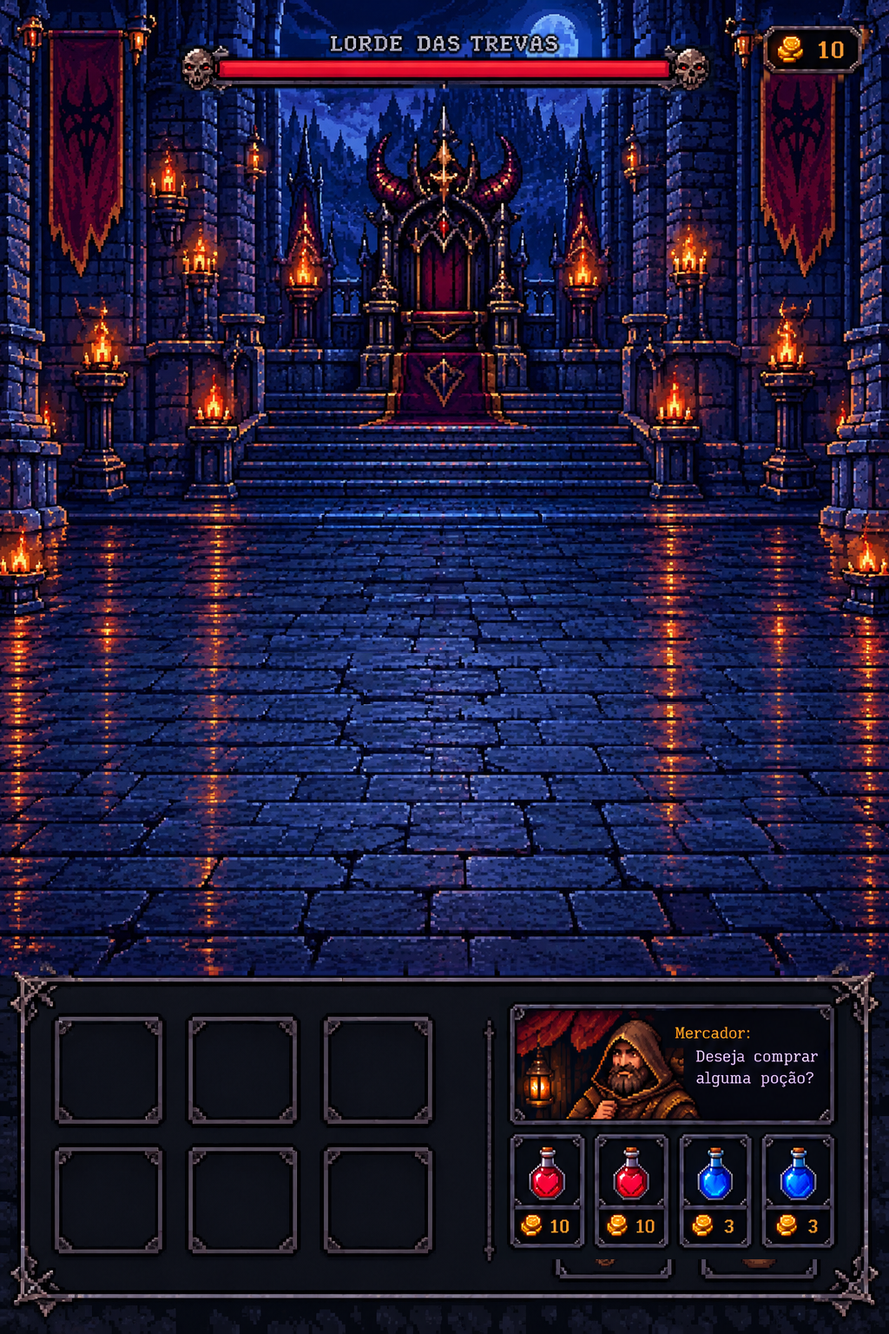
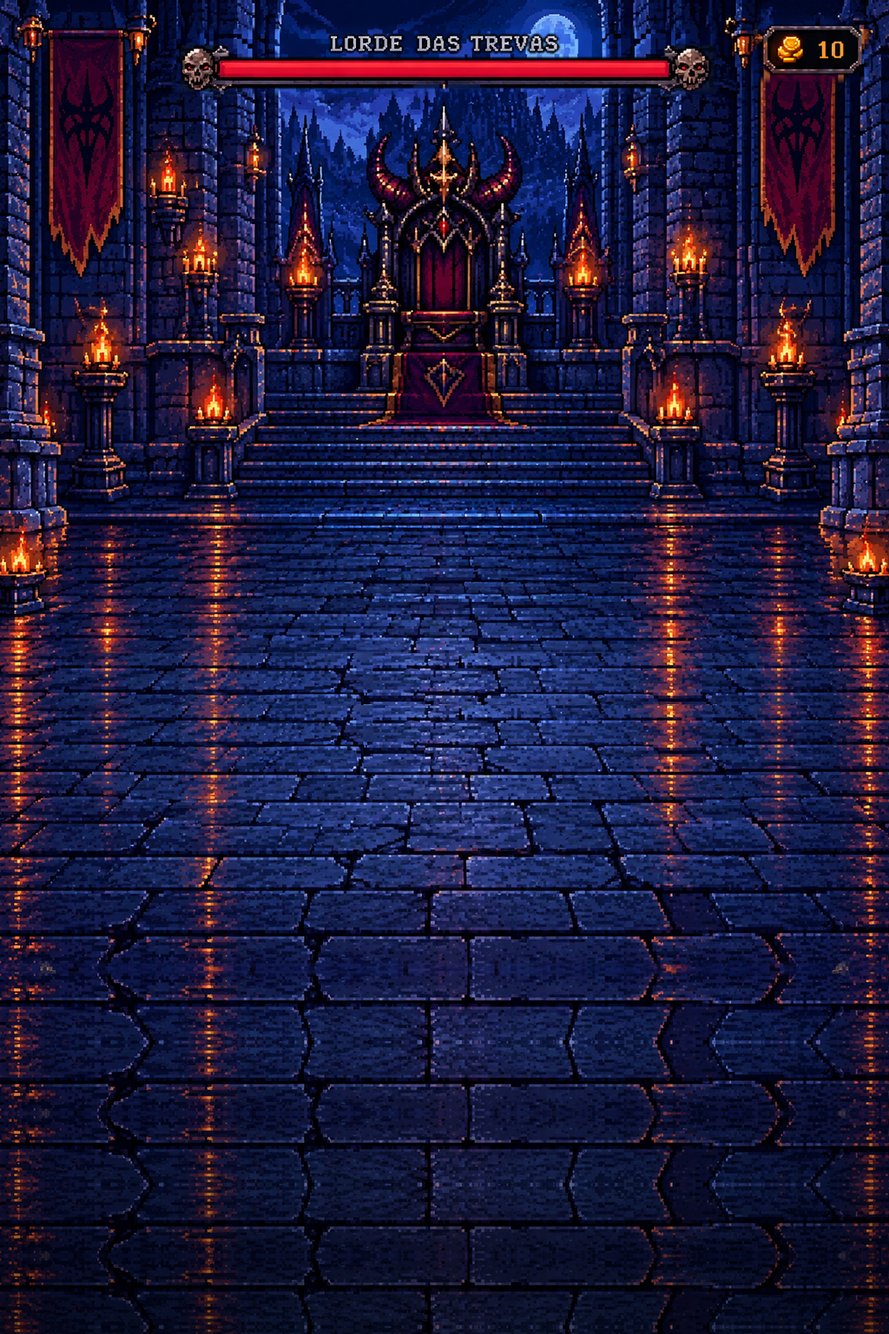
v81: menu de habilidades menor, so seta na vez, inventario/mercador escondidos
Claude-Session: https://claude.ai/code/session_01YFC38PcyDKAfPNhJ7r1cKG

Changed region(s): [[0.0, 0.7188, 1.0, 1.0]]

diff --git a/sw.js b/sw.js
@@ -1,5 +1,5 @@
-const CACHE='bd1-rpg-v80';
-const ASSETS=['./','./index.html','./game.html','./lobby.js','./menu_meta.js','./menu_assassin.png','./menu_mage.png','./menu_knight.png','./menu_tank.png','./menu_elem.png','./icon_tipo_sword.png','./lobby.css','./select_plate.webp','./char_mage.webp','./char_knight.webp','./char_tank.webp','./char_assassin.webp','./panel_mage.webp','./panel_knight.webp','./panel_tank.webp','./panel_assassin.webp','./style.css','./app.js','./anim.js','./mage.js','./cleric.js','./tank.js','./knight.js','./fxsoft.js','./knight/K1_1.png','./knight/K1_10.png','./knight/K1_11.png','./knight/K1_13.png','./knight/K1_14.png','./knight/K1_15.png','./knight/K1_19.png','./knight/K1_2.png','./knight/K1_20.png','./knight/K1_21.png','./knight/K1_22.png','./knight/K1_23.png','./knight/K1_24.png','./knight/K1_25.png','./knight/K1_26.png','./knight/K1_27.png','./knight/K1_28.png','./knight/K1_29.png','./knight/K1_30.png','./knight/K1_31.png','./knight/K1_32.png','./knight/K1_35.png','./knight/K1_37.png','./knight/K1_4.png','./knight/K1_41.png','./knight/K1_42.png','./knight/K1_44.png','./knight/K1_45.png','./knight/K1_46.png','./knight/K1_49.png','./knight/K1_5.png','./knight/K1_6.png','./knight/K1_7.png','./knight/K1_8.png','./knight/K1_9.png','./knight/K2_10.png','./knight/K2_11.png','./knight/K2_13.png','./knight/K2_14.png','./knight/K2_15.png','./knight/K2_16.png','./knight/K2_17.png','./knight/K2_18.png','./knight/K2_19.png','./knight/K2_2.png','./knight/K2_20.png','./knight/K2_21.png','./knight/K2_22.png','./knight/K2_23.png','./knight/K2_24.png','./knight/K2_25.png','./knight/K2_26.png','./knight/K2_28.png','./knight/K2_29.png','./knight/K2_3.png','./knight/K2_30.png','./knight/K2_32.png','./knight/K2_33.png','./knight/K2_34.png','./knight/K2_35.png','./knight/K2_37.png','./knight/K2_38.png','./knight/K2_39.png','./knight/K2_4.png','./knight/K2_41.png','./knight/K2_42.png','./knight/K2_43.png','./knight/K2_44.png','./knight/K2_45.png','./knight/K2_46.png','./knight/K2_5.png','./knight/K2_6.png','./knight/K2_7.png','./knight/K2_8.png','./knight/K2_9.png','./knight/K3_1.png','./knight/K3_10.png','./knight/K3_11.png','./knight/K3_12.png','./knight/K3_13.png','./knight/K3_14.png','./knight/K3_15.png','./knight/K3_16.png','./knight/K3_17.png','./knight/K3_18.png','./knight/K3_2.png','./knight/K3_20.png','./knight/K3_21.png','./knight/K3_22.png','./knight/K3_23.png','./knight/K3_24.png','./knight/K3_25.png','./knight/K3_26.png','./knight/K3_27.png','./knight/K3_28.png','./knight/K3_29.png','./knight/K3_3.png','./knight/K3_30.png','./knight/K3_31.png','./knight/K3_32.png','./knight/K3_33.png','./knight/K3_34.png','./knight/K3_35.png','./knight/K3_36.png','./knight/K3_37.png','./knight/K3_38.png','./knight/K3_39.png','./knight/K3_4.png','./knight/K3_40.png','./knight/K3_41.png','./knight/K3_42.png','./knight/K3_43.png','./knight/K3_44.png','./knight/K3_45.png','./knight/K3_46.png','./knight/K3_47.png','./knight/K3_48.png','./knight/K3_5.png','./knight/K3_6.png','./knight/K3_7.png','./knight/K3_8.png','./knight/K3_9.png','./knight/fx_ice.png','./knight/fx_rocksA.png','./knight/fx_rock1.png','./knight/fx_rock2.png','./knight/fx_rock3.png','./knight/fx_rock4.png','./knight/fx_slash.png','./knight/meta.json','./clr/at1.png','./clr/at2.png','./clr/at3.png','./clr/bg1.png','./clr/bg2.png','./clr/bg3.png','./clr/bg4.png','./clr/bp1.png','./clr/bp2.png','./clr/bp3.png','./clr/br1.png','./clr/br2.png','./clr/br3.png','./clr/br4.png','./clr/br5.png','./clr/br6.png','./clr/bt1.png','./clr/bt2.png','./clr/bt3.png','./clr/bt4.png','./clr/d1.png','./clr/d2.png','./clr/d3.png','./clr/d4.png','./clr/dg1.png','./clr/dg2.png','./clr/dg3.png','./clr/dn1.png','./clr/dn2.png','./clr/dn3.png','./clr/ds1.png','./clr/ex1.png','./clr/fx_aura.png','./clr/fx_burst.png','./clr/fx_cross1.png','./clr/fx_lotus.png','./clr/fx_pillar.png','./clr/fx_pillar2.png','./clr/fx_ring1.png','./clr/fx_ring2.png','./clr/fx_ring3.png','./clr/fx_star1.png','./clr/fx_star2.png','./clr/fx_star3.png','./clr/fx_star4.png','./clr/fx_streak1.png','./clr/fx_streak2.png','./clr/fx_streak3.png','./clr/fx_sunstar.png','./clr/hat1.png','./clr/hat2.png','./clr/idle1.png','./clr/meta.json','./clr/pr1.png','./clr/pr2.png','./clr/stf.png','./clr/ult1.png','./clr/ult2.png','./clr/v1.png','./clr/v2.png','./mage3/air.png','./mage3/atk1.png','./mage3/atk2.png','./mage3/atk3.png','./mage3/bh1.png','./mage3/bh2.png','./mage3/castdef.png','./mage3/defair.png','./mage3/defearth.png','./mage3/deffire.png','./mage3/defmana.png','./mage3/defwater.png','./mage3/dodge1.png','./mage3/dodge2.png','./mage3/dodge3.png','./mage3/dodge4.png','./mage3/earth.png','./mage3/fire.png','./mage3/fx_air_swirl.png','./mage3/fx_bh_big.png','./mage3/fx_bh_big2.png','./mage3/fx_bh_small.png','./mage3/fx_bh_spikes.png','./mage3/fx_bolt.png','./mage3/fx_comet.png','./mage3/fx_cross.png','./mage3/fx_crystal.png','./mage3/fx_earth_spikes.png','./mage3/fx_fire_fall.png','./mage3/fx_mana_aura.png','./mage3/fx_orb_blue.png','./mage3/fx_orb_orange.png','./mage3/fx_orb_red.png','./mage3/fx_orbb.png','./mage3/fx_ring_floor.png','./mage3/fx_rock.png','./mage3/fx_rocks.png','./mage3/fx_star_big.png','./mage3/fx_star_small.png','./mage3/fx_water_pillar.png','./mage3/fx_whirl.png','./mage3/idle1.png','./mage3/idle2.png','./mage3/idle3.png','./mage3/idle4.png','./mage3/meta.json','./mage3/spin1.png','./mage3/spinwide.png','./mage3/stars.png','./mage3/swingf.png','./mage3/swingl.png','./mage3/swingr.png','./mage3/water.png','./anim/manifest.json','./spr_mage.webp','./spr_knight.webp','./spr_tank.webp','./spr_assassin.webp','./spr_boss.webp','./game_clean.png','./game_nohud.png','./hud_mage.png','./hud_knight.png','./hud_tank.png','./hud_assassin.png','./question_panel.png','./icon_attack.png','./icon_coin.png','./manifest.webmanifest','./potion_hp.png','./potion_mana.png','./tank/a_bub.png','./tank/a_cr.png','./tank/a_dust.png','./tank/a_hh.png','./tank/a_i1.png','./tank/a_i2.png','./tank/a_lo.png','./tank/a_rd.png','./tank/a_rl1.png','./tank/a_rl2.png','./tank/a_s1.png','./tank/a_s2.png','./tank/a_sw.png','./tank/a_swl.png','./tank/d_a1.png','./tank/d_a2.png','./tank/d_a3.png','./tank/d_a4.png','./tank/d_e1.png','./tank/d_e2.png','./tank/d_e3.png','./tank/d_e4.png','./tank/d_f1.png','./tank/d_f2.png','./tank/d_f3.png','./tank/d_h1.png','./tank/d_h2.png','./tank/d_h3.png','./tank/d_h4.png','./tank/d_i1.png','./tank/d_i2.png','./tank/d_i3.png','./tank/d_m1.png','./tank/d_m2.png','./tank/d_m3.png','./tank/d_m4.png','./tank/d_p1.png','./tank/d_p3.png','./tank/d_u1.png','./tank/d_u2.png','./tank/fx_bring.png','./tank/fx_bspike.png','./tank/fx_earth.png','./tank/fx_rockburst.png','./tank/meta.json','./tank/n1.png','./tank/n2.png','./tank/n3.png','./tank/p1.png','./tank/tA.png','./tank/tB.png','./tank/tC.png','./tank/v1.png','./tank/v2.png','./tank/v3.png','./tank/v4.png'];
+const CACHE='bd1-rpg-v81';
+const ASSETS=['./','./index.html','./game.html','./lobby.js','./bag_panel.png','./bag_icon.png','./bag_merchant.png','./menu_meta.js','./menu_assassin.png','./menu_mage.png','./menu_knight.png','./menu_tank.png','./menu_elem.png','./icon_tipo_sword.png','./lobby.css','./select_plate.webp','./char_mage.webp','./char_knight.webp','./char_tank.webp','./char_assassin.webp','./panel_mage.webp','./panel_knight.webp','./panel_tank.webp','./panel_assassin.webp','./style.css','./app.js','./anim.js','./mage.js','./cleric.js','./tank.js','./knight.js','./fxsoft.js','./knight/K1_1.png','./knight/K1_10.png','./knight/K1_11.png','./knight/K1_13.png','./knight/K1_14.png','./knight/K1_15.png','./knight/K1_19.png','./knight/K1_2.png','./knight/K1_20.png','./knight/K1_21.png','./knight/K1_22.png','./knight/K1_23.png','./knight/K1_24.png','./knight/K1_25.png','./knight/K1_26.png','./knight/K1_27.png','./knight/K1_28.png','./knight/K1_29.png','./knight/K1_30.png','./knight/K1_31.png','./knight/K1_32.png','./knight/K1_35.png','./knight/K1_37.png','./knight/K1_4.png','./knight/K1_41.png','./knight/K1_42.png','./knight/K1_44.png','./knight/K1_45.png','./knight/K1_46.png','./knight/K1_49.png','./knight/K1_5.png','./knight/K1_6.png','./knight/K1_7.png','./knight/K1_8.png','./knight/K1_9.png','./knight/K2_10.png','./knight/K2_11.png','./knight/K2_13.png','./knight/K2_14.png','./knight/K2_15.png','./knight/K2_16.png','./knight/K2_17.png','./knight/K2_18.png','./knight/K2_19.png','./knight/K2_2.png','./knight/K2_20.png','./knight/K2_21.png','./knight/K2_22.png','./knight/K2_23.png','./knight/K2_24.png','./knight/K2_25.png','./knight/K2_26.png','./knight/K2_28.png','./knight/K2_29.png','./knight/K2_3.png','./knight/K2_30.png','./knight/K2_32.png','./knight/K2_33.png','./knight/K2_34.png','./knight/K2_35.png','./knight/K2_37.png','./knight/K2_38.png','./knight/K2_39.png','./knight/K2_4.png','./knight/K2_41.png','./knight/K2_42.png','./knight/K2_43.png','./knight/K2_44.png','./knight/K2_45.png','./knight/K2_46.png','./knight/K2_5.png','./knight/K2_6.png','./knight/K2_7.png','./knight/K2_8.png','./knight/K2_9.png','./knight/K3_1.png','./knight/K3_10.png','./knight/K3_11.png','./knight/K3_12.png','./knight/K3_13.png','./knight/K3_14.png','./knight/K3_15.png','./knight/K3_16.png','./knight/K3_17.png','./knight/K3_18.png','./knight/K3_2.png','./knight/K3_20.png','./knight/K3_21.png','./knight/K3_22.png','./knight/K3_23.png','./knight/K3_24.png','./knight/K3_25.png','./knight/K3_26.png','./knight/K3_27.png','./knight/K3_28.png','./knight/K3_29.png','./knight/K3_3.png','./knight/K3_30.png','./knight/K3_31.png','./knight/K3_32.png','./knight/K3_33.png','./knight/K3_34.png','./knight/K3_35.png','./knight/K3_36.png','./knight/K3_37.png','./knight/K3_38.png','./knight/K3_39.png','./knight/K3_4.png','./knight/K3_40.png','./knight/K3_41.png','./knight/K3_42.png','./knight/K3_43.png','./knight/K3_44.png','./knight/K3_45.png','./knight/K3_46.png','./knight/K3_47.png','./knight/K3_48.png','./knight/K3_5.png','./knight/K3_6.png','./knight/K3_7.png','./knight/K3_8.png','./knight/K3_9.png','./knight/fx_ice.png','./knight/fx_rocksA.png','./knight/fx_rock1.png','./knight/fx_rock2.png','./knight/fx_rock3.png','./knight/fx_rock4.png','./knight/fx_slash.png','./knight/meta.json','./clr/at1.png','./clr/at2.png','./clr/at3.png','./clr/bg1.png','./clr/bg2.png','./clr/bg3.png','./clr/bg4.png','./clr/bp1.png','./clr/bp2.png','./clr/bp3.png','./clr/br1.png','./clr/br2.png','./clr/br3.png','./clr/br4.png','./clr/br5.png','./clr/br6.png','./clr/bt1.png','./clr/bt2.png','./clr/bt3.png','./clr/bt4.png','./clr/d1.png','./clr/d2.png','./clr/d3.png','./clr/d4.png','./clr/dg1.png','./clr/dg2.png','./clr/dg3.png','./clr/dn1.png','./clr/dn2.png','./clr/dn3.png','./clr/ds1.png','./clr/ex1.png','./clr/fx_aura.png','./clr/fx_burst.png','./clr/fx_cross1.png','./clr/fx_lotus.png','./clr/fx_pillar.png','./clr/fx_pillar2.png','./clr/fx_ring1.png','./clr/fx_ring2.png','./clr/fx_ring3.png','./clr/fx_star1.png','./clr/fx_star2.png','./clr/fx_star3.png','./clr/fx_star4.png','./clr/fx_streak1.png','./clr/fx_streak2.png','./clr/fx_streak3.png','./clr/fx_sunstar.png','./clr/hat1.png','./clr/hat2.png','./clr/idle1.png','./clr/meta.json','./clr/pr1.png','./clr/pr2.png','./clr/stf.png','./clr/ult1.png','./clr/ult2.png','./clr/v1.png','./clr/v2.png','./mage3/air.png','./mage3/atk1.png','./mage3/atk2.png','./mage3/atk3.png','./mage3/bh1.png','./mage3/bh2.png','./mage3/castdef.png','./mage3/defair.png','./mage3/defearth.png','./mage3/deffire.png','./mage3/defmana.png','./mage3/defwater.png','./mage3/dodge1.png','./mage3/dodge2.png','./mage3/dodge3.png','./mage3/dodge4.png','./mage3/earth.png','./mage3/fire.png','./mage3/fx_air_swirl.png','./mage3/fx_bh_big.png','./mage3/fx_bh_big2.png','./mage3/fx_bh_small.png','./mage3/fx_bh_spikes.png','./mage3/fx_bolt.png','./mage3/fx_comet.png','./mage3/fx_cross.png','./mage3/fx_crystal.png','./mage3/fx_earth_spikes.png','./mage3/fx_fire_fall.png','./mage3/fx_mana_aura.png','./mage3/fx_orb_blue.png','./mage3/fx_orb_orange.png','./mage3/fx_orb_red.png','./mage3/fx_orbb.png','./mage3/fx_ring_floor.png','./mage3/fx_rock.png','./mage3/fx_rocks.png','./mage3/fx_star_big.png','./mage3/fx_star_small.png','./mage3/fx_water_pillar.png','./mage3/fx_whirl.png','./mage3/idle1.png','./mage3/idle2.png','./mage3/idle3.png','./mage3/idle4.png','./mage3/meta.json','./mage3/spin1.png','./mage3/spinwide.png','./mage3/stars.png','./mage3/swingf.png','./mage3/swingl.png','./mage3/swingr.png','./mage3/water.png','./anim/manifest.json','./spr_mage.webp','./spr_knight.webp','./spr_tank.webp','./spr_assassin.webp','./spr_boss.webp','./game_clean.png','./game_nohud.png','./hud_mage.png','./hud_knight.png','./hud_tank.png','./hud_assassin.png','./question_panel.png','./icon_attack.png','./icon_coin.png','./manifest.webmanifest','./potion_hp.png','./potion_mana.png','./tank/a_bub.png','./tank/a_cr.png','./tank/a_dust.png','./tank/a_hh.png','./tank/a_i1.png','./tank/a_i2.png','./tank/a_lo.png','./tank/a_rd.png','./tank/a_rl1.png','./tank/a_rl2.png','./tank/a_s1.png','./tank/a_s2.png','./tank/a_sw.png','./tank/a_swl.png','./tank/d_a1.png','./tank/d_a2.png','./tank/d_a3.png','./tank/d_a4.png','./tank/d_e1.png','./tank/d_e2.png','./tank/d_e3.png','./tank/d_e4.png','./tank/d_f1.png','./tank/d_f2.png','./tank/d_f3.png','./tank/d_h1.png','./tank/d_h2.png','./tank/d_h3.png','./tank/d_h4.png','./tank/d_i1.png','./tank/d_i2.png','./tank/d_i3.png','./tank/d_m1.png','./tank/d_m2.png','./tank/d_m3.png','./tank/d_m4.png','./tank/d_p1.png','./tank/d_p3.png','./tank/d_u1.png','./tank/d_u2.png','./tank/fx_bring.png','./tank/fx_bspike.png','./tank/fx_earth.png','./tank/fx_rockburst.png','./tank/meta.json','./tank/n1.png','./tank/n2.png','./tank/n3.png','./tank/p1.png','./tank/tA.png','./tank/tB.png','./tank/tC.png','./tank/v1.png','./tank/v2.png','./tank/v3.png','./tank/v4.png'];
 // Tudo em cache (abre instantâneo, até offline). Em segundo plano o SW confere a rede (requisição condicional, barata);
 // se algum arquivo mudou, atualiza o cache e avisa a página, que recarrega sozinha (menu) ou mostra o aviso (jogo).
 const keyOf=u=>{const x=new URL(u);return x.origin+x.pathname};

diff --git a/style.css b/style.css
@@ -1,11 +1,8 @@
 *{-webkit-tap-highlight-color:transparent}button{outline:none}button:focus,button:focus-visible,button:active{outline:none}::selection{background:transparent}img{-webkit-touch-callout:none}
 *{box-sizing:border-box}html,body{margin:0;width:100%;height:100%;background:#050711;overflow:hidden}body{display:grid;place-items:center}.game{position:relative;width:min(100vw,66.6666667vh);height:min(100vh,150vw);aspect-ratio:2/3;overflow:hidden;overflow:clip;background:#050711;touch-action:manipulation;user-select:none;-webkit-user-select:none}.game #reference{position:absolute;inset:0;width:100%;height:100%;object-fit:fill;image-rendering:pixelated;display:block;-webkit-user-drag:none;user-select:none}.hit,.vote-choice{appearance:none;-webkit-appearance:none;-webkit-tap-highlight-color:transparent;outline:none;box-shadow:none}.hit{position:absolute;border:0;background:transparent;padding:0;margin:0;cursor:pointer;touch-action:manipulation;z-index:20}.hit:focus,.hit:active{outline:none;background:transparent;box-shadow:none}.hit:focus-visible{outline:1px solid rgba(255,211,77,.0)}
 /* All hitboxes use the source image coordinate system: x/1024 and y/1536. */
-.shop{top:85.10%;height:9.35%;width:7.55%}.shop.hp1{left:57.55%}.shop.hp2{left:65.43%}.shop.mana1{left:73.05%}.shop.mana2{left:81.15%}
-#inventory-hits{position:absolute;inset:0;z-index:21;pointer-events:none}.inventory-hit{position:absolute;border:0;background:transparent;appearance:none;-webkit-appearance:none;-webkit-tap-highlight-color:transparent;outline:none}.inventory-hit:focus,.inventory-hit:active{outline:none;background:transparent}.inventory-hit:nth-child(1){left:5.75%;top:76.15%;width:12.65%;height:8.55%}.inventory-hit:nth-child(2){left:21.45%;top:76.15%;width:12.65%;height:8.55%}.inventory-hit:nth-child(3){left:37.15%;top:76.15%;width:12.65%;height:8.55%}.inventory-hit:nth-child(4){left:5.75%;top:86.05%;width:12.65%;height:8.55%}.inventory-hit:nth-child(5){left:21.45%;top:86.05%;width:12.65%;height:8.55%}.inventory-hit:nth-child(6){left:37.15%;top:86.05%;width:12.65%;height:8.55%}
 /* Painel do Mercador: cobre só o texto antigo; retrato e moldura da arte ficam intactos. */
 .game{container-type:inline-size}
-.merchant-vote{position:absolute;z-index:26;left:75.7%;top:76%;width:17.3%;height:6.2%;padding:.5cqw .8cqw;background:#05050e;color:#eee5f7;font-family:monospace;display:flex;flex-direction:column;gap:.5cqw;overflow:hidden}
 .merchant-title{font-size:1.75cqw;line-height:1.1;color:#e3a948;display:flex;justify-content:space-between;align-items:center}.merchant-title b{color:#9fe3a8;font-size:1.6cqw}.merchant-vote.urgent .merchant-title b{color:#ff536b}
 .merchant-body{display:none;flex:1;min-height:0;flex-direction:column;gap:.5cqw}
 .merchant-vote.open .merchant-body{display:flex}
@@ -134,10 +131,8 @@
 .action-menu::before{left:-2px;top:-2px;border-right:0;border-bottom:0}.action-menu::after{right:-2px;bottom:-2px;border-left:0;border-top:0}
 /* ===== Marcador da vez do herói (pixel art) ===== */
 .turn-marker{position:absolute;inset:0;z-index:12;pointer-events:none}
-.tm-arrow{position:absolute;top:45.6%;width:5.6cqw;margin-left:-2.8cqw;image-rendering:pixelated;animation:tm-bob .7s steps(2) infinite;filter:drop-shadow(0 0 3px rgba(255,197,78,.8))}
-.tm-ring{position:absolute;top:67.6%;width:19cqw;margin-left:-9.5cqw;image-rendering:pixelated;animation:tm-ring .8s steps(2) infinite}
+.tm-arrow{position:absolute;top:46.2%;width:3.4cqw;margin-left:-1.7cqw;image-rendering:pixelated;animation:tm-bob .7s steps(2) infinite;filter:drop-shadow(0 0 3px rgba(255,197,78,.8))}
 .tm-beam{position:absolute;top:49.5%;height:19%;width:9cqw;margin-left:-4.5cqw;background:repeating-linear-gradient(0deg,rgba(255,240,190,.0) 0 .6cqw,color-mix(in srgb,var(--col) 40%,transparent) .6cqw 1.2cqw);-webkit-mask:linear-gradient(90deg,transparent,#000 30%,#000 70%,transparent),linear-gradient(0deg,#000,transparent);mask:linear-gradient(90deg,transparent,#000 30%,#000 70%,transparent);opacity:.55;animation:tm-beam 1s steps(4) infinite}
-.tm-frame{position:absolute;border:2px solid #ffc54e;box-shadow:0 0 0 2px #05040a,0 0 8px 2px rgba(255,197,78,.6);animation:tm-blink .9s steps(2) infinite}
 @keyframes tm-bob{0%{transform:translateY(0)}100%{transform:translateY(-1.4cqw)}}
 @keyframes tm-ring{0%{opacity:1;transform:scale(1)}100%{opacity:.7;transform:scale(1.06)}}
 @keyframes tm-beam{0%{background-position:0 0}100%{background-position:0 -1.2cqw}}
@@ -188,7 +183,7 @@
 .dq-answer.wrong::after{box-shadow:inset 0 0 0 .35cqw #ff536b,0 0 1.4cqw rgba(255,83,107,.5);background:rgba(255,83,107,.16)}
 .dq-answer:disabled{cursor:default}
 /* ===== Menu de habilidades (arte por herói) ===== */
-.skm{position:absolute;z-index:28;left:4%;width:92%;top:10.5%;pointer-events:auto;container-type:inline-size;font-family:monospace;animation:dq-in .34s ease-out both}
+.skm{position:absolute;z-index:28;left:16%;width:68%;top:13%;pointer-events:auto;container-type:inline-size;font-family:monospace;animation:dq-in .34s ease-out both}
 .skm.exiting{animation:dq-out .36s ease-in both;pointer-events:none}
 .skm-frame{display:block;width:100%;height:auto;pointer-events:none}
 .skm-layer{position:absolute;inset:0}
@@ -214,3 +209,29 @@
 .dq-val.sm{font-size:1.4cqw}
 .dq-val .dq-dot{position:static;width:1.1cqw;height:1.1cqw;margin-right:.7cqw;flex:none}
 #dq-text{padding:0 6% 0 1.2cqw}
+
+/* ===== Inventário + Mercador escondidos ===== */
+.bag-toggle{position:absolute;z-index:30;left:50%;bottom:1.2%;transform:translateX(-50%);display:flex;align-items:center;gap:1.2cqw;padding:.9cqw 1.6cqw;background:linear-gradient(#17122b,#0a0816);border:2px solid #b8893a;border-radius:1.2cqw;box-shadow:0 0 0 2px #05040a,0 0 1.6cqw rgba(255,197,78,.35);cursor:pointer;-webkit-tap-highlight-color:transparent;outline:0}
+.bag-toggle img{height:6.2cqw;width:auto;image-rendering:pixelated;display:block}.bag-toggle .bt-m{height:6.2cqw;border:1px solid #6b5a2e;image-rendering:auto}
+.bag-toggle[aria-expanded=true]{border-color:#ffe08a;box-shadow:0 0 0 2px #05040a,0 0 2.4cqw rgba(255,224,138,.7)}
+.bag-back{position:absolute;inset:0;z-index:26;background:rgba(2,2,10,.45)}
+.bag-panel{position:absolute;z-index:29;left:3%;width:94%;bottom:11%;aspect-ratio:1913/743;container-type:inline-size;animation:dq-in .25s ease-out both}
+.bag-panel>img{position:absolute;inset:0;width:100%;height:100%;display:block;pointer-events:none}
+#inventory-hits{position:absolute;inset:0;pointer-events:none}
+.inventory-hit{position:absolute;border:0;background:transparent;appearance:none;-webkit-appearance:none;-webkit-tap-highlight-color:transparent;outline:none}.inventory-hit:focus,.inventory-hit:active{outline:none;background:transparent}
+.inventory-hit:nth-child(1){left:9.30%;top:25.03%;width:11.87%;height:26.92%}
+.inventory-hit:nth-child(2){left:22.90%;top:25.03%;width:12.02%;height:26.92%}
+.inventory-hit:nth-child(3){left:36.49%;top:25.03%;width:11.87%;height:26.92%}
+.inventory-hit:nth-child(4){left:9.30%;top:55.99%;width:11.87%;height:26.92%}
+.inventory-hit:nth-child(5){left:22.90%;top:55.99%;width:12.02%;height:26.92%}
+.inventory-hit:nth-child(6){left:36.49%;top:55.99%;width:11.87%;height:26.92%}
+.bag-panel .shop.hp1{left:52.01%;top:49.93%;width:9.67%;height:34.99%}
+.bag-panel .shop.hp2{left:62.99%;top:49.93%;width:9.41%;height:34.99%}
+.bag-panel .shop.mana1{left:73.44%;top:49.93%;width:8.89%;height:34.99%}
+.bag-panel .shop.mana2{left:83.01%;top:49.93%;width:8.73%;height:34.99%}
+.bag-panel .hit{position:absolute;border:0;background:transparent;cursor:pointer;-webkit-tap-highlight-color:transparent;outline:0;padding:0}
+.bag-panel .hit:active{background:rgba(255,224,138,.18)}
+.merchant-vote{position:absolute;left:74.23%;top:29.88%;width:17.51%;height:14.27%;padding:0;color:#eee5f7;font-family:monospace;display:flex;flex-direction:column;gap:.4cqw;overflow:hidden}
+.merchant-vote .merchant-title{font-size:1.2cqw;justify-content:flex-end;min-height:1.3cqw}
+.bag-panel .merchant-question{font-size:1.15cqw}
+.bag-panel .vote-choice{font-size:1.2cqw;padding:.35cqw .6cqw}

diff --git a/game.html b/game.html
@@ -24,30 +24,11 @@
 
   <!-- Pixel-accurate transparent hit map. Coordinates are in the source image's 1024x1536 grid. -->
   <div id="hitmap" aria-label="Controles do jogo">
-
-
-    <button class="hit shop hp1" data-action="buy" data-item="hp" aria-label="Comprar poção de HP"></button>
-    <button class="hit shop hp2" data-action="buy" data-item="hp" aria-label="Comprar poção de HP"></button>
-    <button class="hit shop mana1" data-action="buy" data-item="mana" aria-label="Comprar poção de mana"></button>
-    <button class="hit shop mana2" data-action="buy" data-item="mana" aria-label="Comprar poção de mana"></button>
-
-    <div id="inventory-hits"></div>
   </div>
 
   <!-- Moedas do grupo (cobre o número fixo da arte). -->
   <div id="gold-hud" class="gold-hud" aria-label="Moedas do grupo">10</div>
 
-  <!-- Painel do Mercador: vazio (só "Mercador:") até abrir uma votação. -->
-  <section id="merchant-vote" class="merchant-vote" aria-label="Mercador">
-    <div class="merchant-title"><span>Mercador:</span><b id="merchant-timer"></b></div>
-    <div class="merchant-body">
-      <div id="merchant-question" class="merchant-question"></div>
-      <div class="vote-row">
-        <button class="vote-choice" data-action="vote" data-vote="yes"><span>SIM</span><b id="yes-count">0</b></button>
-        <button class="vote-choice" data-action="vote" data-vote="no"><span>NÃO</span><b id="no-count">0</b></button>
-      </div>
-    </div>
-  </section>
 
   <!-- Pergunta = ataque do boss. Só existe na tela durante o ataque. -->
   <section id="dynamic-ui" hidden>
@@ -69,6 +50,28 @@
     </header>
     <div id="am-list" class="am-list"></div>
   </section>
+
+  <!-- Inventário + Mercador: escondido; abre ao clicar no botão da borda inferior. -->
+  <div id="bag-back" class="bag-back" hidden></div>
+  <section id="bag-panel" class="bag-panel" hidden aria-label="Inventário e Mercador">
+    <img src="bag_panel.png" alt="" draggable="false">
+    <div id="inventory-hits"></div>
+    <button class="hit shop hp1" data-action="buy" data-item="hp" aria-label="Comprar poção de HP"></button>
+    <button class="hit shop hp2" data-action="buy" data-item="hp" aria-label="Comprar poção de HP"></button>
+    <button class="hit shop mana1" data-action="buy" data-item="mana" aria-label="Comprar poção de mana"></button>
+    <button class="hit shop mana2" data-action="buy" data-item="mana" aria-label="Comprar poção de mana"></button>
+    <div id="merchant-vote" class="merchant-vote" aria-label="Mercador">
+      <div class="merchant-title"><span></span><b id="merchant-timer"></b></div>
+      <div class="merchant-body">
+        <div id="merchant-question" class="merchant-question"></div>
+        <div class="vote-row">
+          <button class="vote-choice" data-action="vote" data-vote="yes"><span>SIM</span><b id="yes-count">0</b></button>
+          <button class="vote-choice" data-action="vote" data-vote="no"><span>NÃO</span><b id="no-count">0</b></button>
+        </div>
+      </div>
+    </div>
+  </section>
+  <button id="bag-toggle" class="bag-toggle" type="button" aria-label="Inventário e Mercador" aria-expanded="false"><img src="bag_icon.png" alt=""><img class="bt-m" src="bag_merchant.png" alt=""></button>
 
   <button id="back-lobby" class="back-lobby" type="button" aria-label="Trocar de grupo">◀ GRUPOS</button>
 

diff --git a/app.js b/app.js
@@ -171,7 +171,7 @@ function openMerchantVote(text, action){
   state.pendingAction = action; state.myVote = null; state.voteLocked = false;
   state.voters = groupMembers(); state.need = majorityOf(state.voters);
   showMerchantText(text);
-  $('#merchant-vote').classList.add('open');
+  $('#merchant-vote').classList.add('open'); setBag(true);
   updateVoteUI();
   startVoteTimer();
   if (TEST_MODE) startBots();
@@ -427,8 +427,6 @@ function showRing(hero){
   m.style.setProperty('--col', col);
   m.innerHTML =
     `<div class="tm-beam" style="left:${x}%"></div>` +
-    `<img class="tm-ring" style="left:${x}%" src="${pixRing(col)}" alt="">` +
-    `<div class="tm-frame" style="left:${pctX(fx)};top:${pctY(HUD_Y - 5)};width:${pctX(fw)};height:${pctY(hx[3] + 46)}"></div>` +
     `<img class="tm-arrow" style="left:${x}%" src="${pixIcon('arrow')}" alt="">`;
   $('#game').appendChild(m);
 }
@@ -879,6 +877,10 @@ $('#hitmap').addEventListener('click',e=>{
   const action=b.dataset.action;
   if(action==='buy')requestBuy(b.dataset.item);
 });
+function setBag(on){ $('#bag-panel').hidden = !on; $('#bag-back').hidden = !on; $('#bag-toggle').setAttribute('aria-expanded', on); }
+$('#bag-toggle').addEventListener('click', () => setBag($('#bag-panel').hidden));
+$('#bag-back').addEventListener('click', () => setBag(false));
+$('#bag-panel').addEventListener('click', e => { const b = e.target.closest('button'); if (b && b.dataset.action === 'buy') requestBuy(b.dataset.item); });
 $('.merchant-vote').addEventListener('click',e=>{const b=e.target.closest('.vote-choice');if(b)vote(b.dataset.vote)});
 
 buildHud();renderHud();renderGold();renderInventoryHits();updateVoteUI();

diff --git a/README.md b/README.md
@@ -317,3 +317,7 @@ Guerreiro: âncora das poses trocada (centro do corpo azul + chão por percentil
 - MAGO → MAGA em todo o jogo. Ataque Super Pesado do Tanque custa 20 de mana (como no quadro). Escolha de alvo (Passar a Vez, Proteção, Luz Sagrada) segue no menu simples antigo.
 
 ## v80 — Guerreiro: rolamento/esquiva/dano menores (escala da família ROLL ~0,8x em `tools/cut_knight.py`, ancoragem mantida).
+
+## v81 — menu menor, marcador de vez só com seta, inventário/mercador escondidos
+- Menu de habilidades a 68% da largura. Marcador de vez: sem retângulo amarelo e sem círculo no chão; só a seta (menor).
+- Inventário + Mercador: arte nova (`bag_panel.png`), escondida; botão com mochila + mercador no centro da borda inferior (`#bag-toggle`) abre/fecha. Abre sozinho quando começa uma votação de compra. Fundo do rodapé (`game_nohud.png`) estendido com chão.
